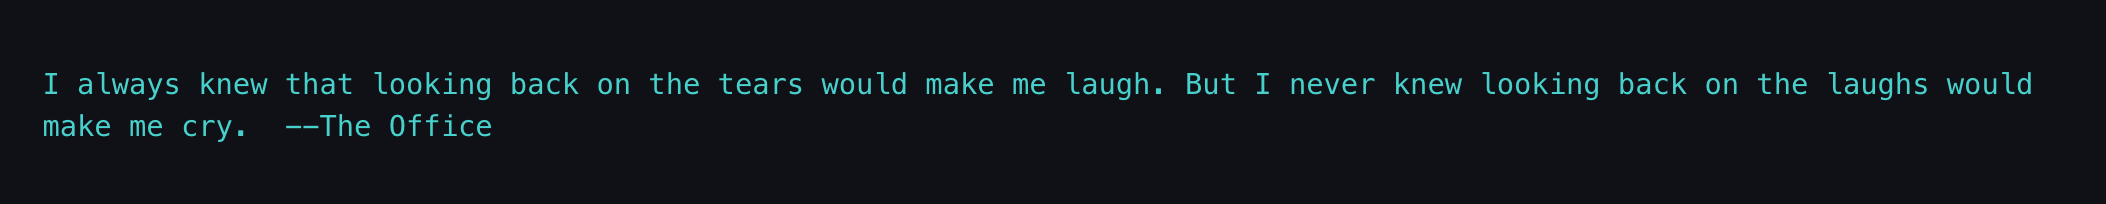
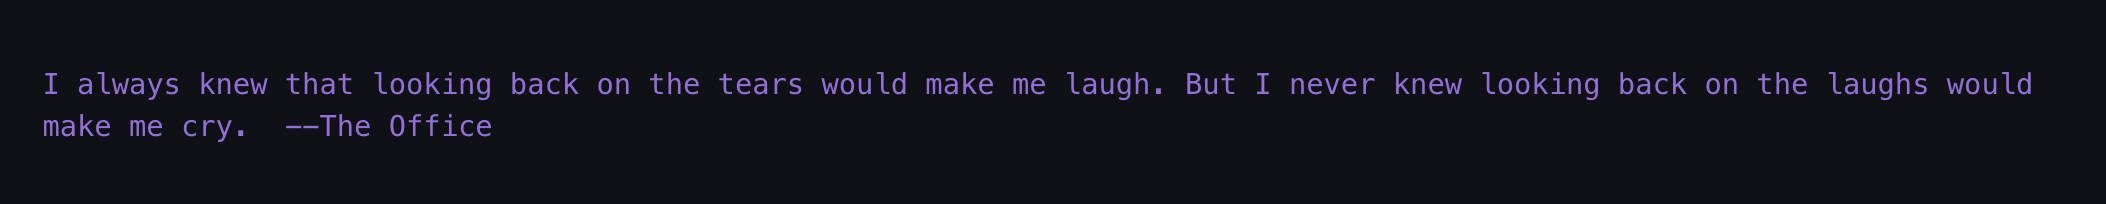
docs(readme): update readme

Changed region(s): [[0.0, 0.3529, 0.9877, 0.4706], [0.0, 0.5588, 0.2469, 0.6765], [0.0, 0.3529, 0.0309, 0.3824]]

diff --git a/src/index.ts b/src/index.ts
@@ -140,7 +140,7 @@ const print = (value: Value, options?: Options) => {
     options?.textColor ? options?.textColor : 'white'
   )
 
-  console.group(chalk.hex(timeHex)(time?.slice(0, -2)))
+  time && console.group(chalk.hex(timeHex)(time?.slice(0, -2)))
   console.log(chalk.hex(textHex)(trace(value.text)))
   console.groupEnd()
 
@@ -204,7 +204,9 @@ const jot = {
   log,
   info: (value: unknown) => console.log(value),
   warn: (value: unknown) => console.log(value),
-  error: (value: unknown) => console.log(value)
+  error: (value: unknown) => console.log(value),
+  box: () => 'Put variable in an object. jot.box(number) => { number: 4 }',
+  count: () => 'Print length of array or number of keys.'
 }
 
 export default { ...jot }

diff --git a/src/example.ts b/src/example.ts
@@ -32,5 +32,15 @@ jot.log(
 
 jot.log(
   'I always knew that looking back on the tears would make me laugh. But I never knew looking back on the laughs would make me cry.  --The Office\n\n\n\n\n',
-  { showTimestamp: false, textColor: 'mediumturquoise' }
+  { showTimestamp: false, textColor: 'mediumpurple' }
 )
+
+const planet = {
+  name: 'Earth',
+  population: '7.7b',
+  orbitDistance: '1au',
+  orbitPeriod: '365.24d',
+  age: '4.5b'
+}
+
+jot.log(planet, { textColor: 'wheat' })

diff --git a/README.md b/README.md
@@ -60,7 +60,7 @@ jot.log('Life is just an 80 or so year interruption from the void. --Nuziburt')
 <br />
 <br />
 
-Change the text color.
+You can change the text color.
 
 ```javascript
 import jot from 'jotsy'
@@ -105,13 +105,37 @@ import jot from 'jotsy'
 
 jot.log(
   'I always knew that looking back on the tears would make me laugh. But I never knew looking back on the laughs would make me cry.  --The Office',
-  { showTimestamp: false }
+  { showTimestamp: false, textColor: 'mediumpurple' }
 )
 ```
 
 <br />
 <div align="center">
   <img alt="Default Loggers" src="media/no-time.png" >
+</div>
+<br />
+<br />
+<br />
+
+Objects and arrays print the entire contents.
+
+```typescript
+import jot from 'jotsy'
+
+const planet = {
+  name: 'Earth',
+  population: '7.7b',
+  orbitDistance: '1au',
+  orbitPeriod: '365.24d',
+  age: '4.5b'
+}
+
+jot.log(planet, { textColor: 'wheat' })
+```
+
+<br />
+<div align="center">
+  <img alt="Default Loggers" src="media/trace.png" >
 </div>
 <br />
 <br />
